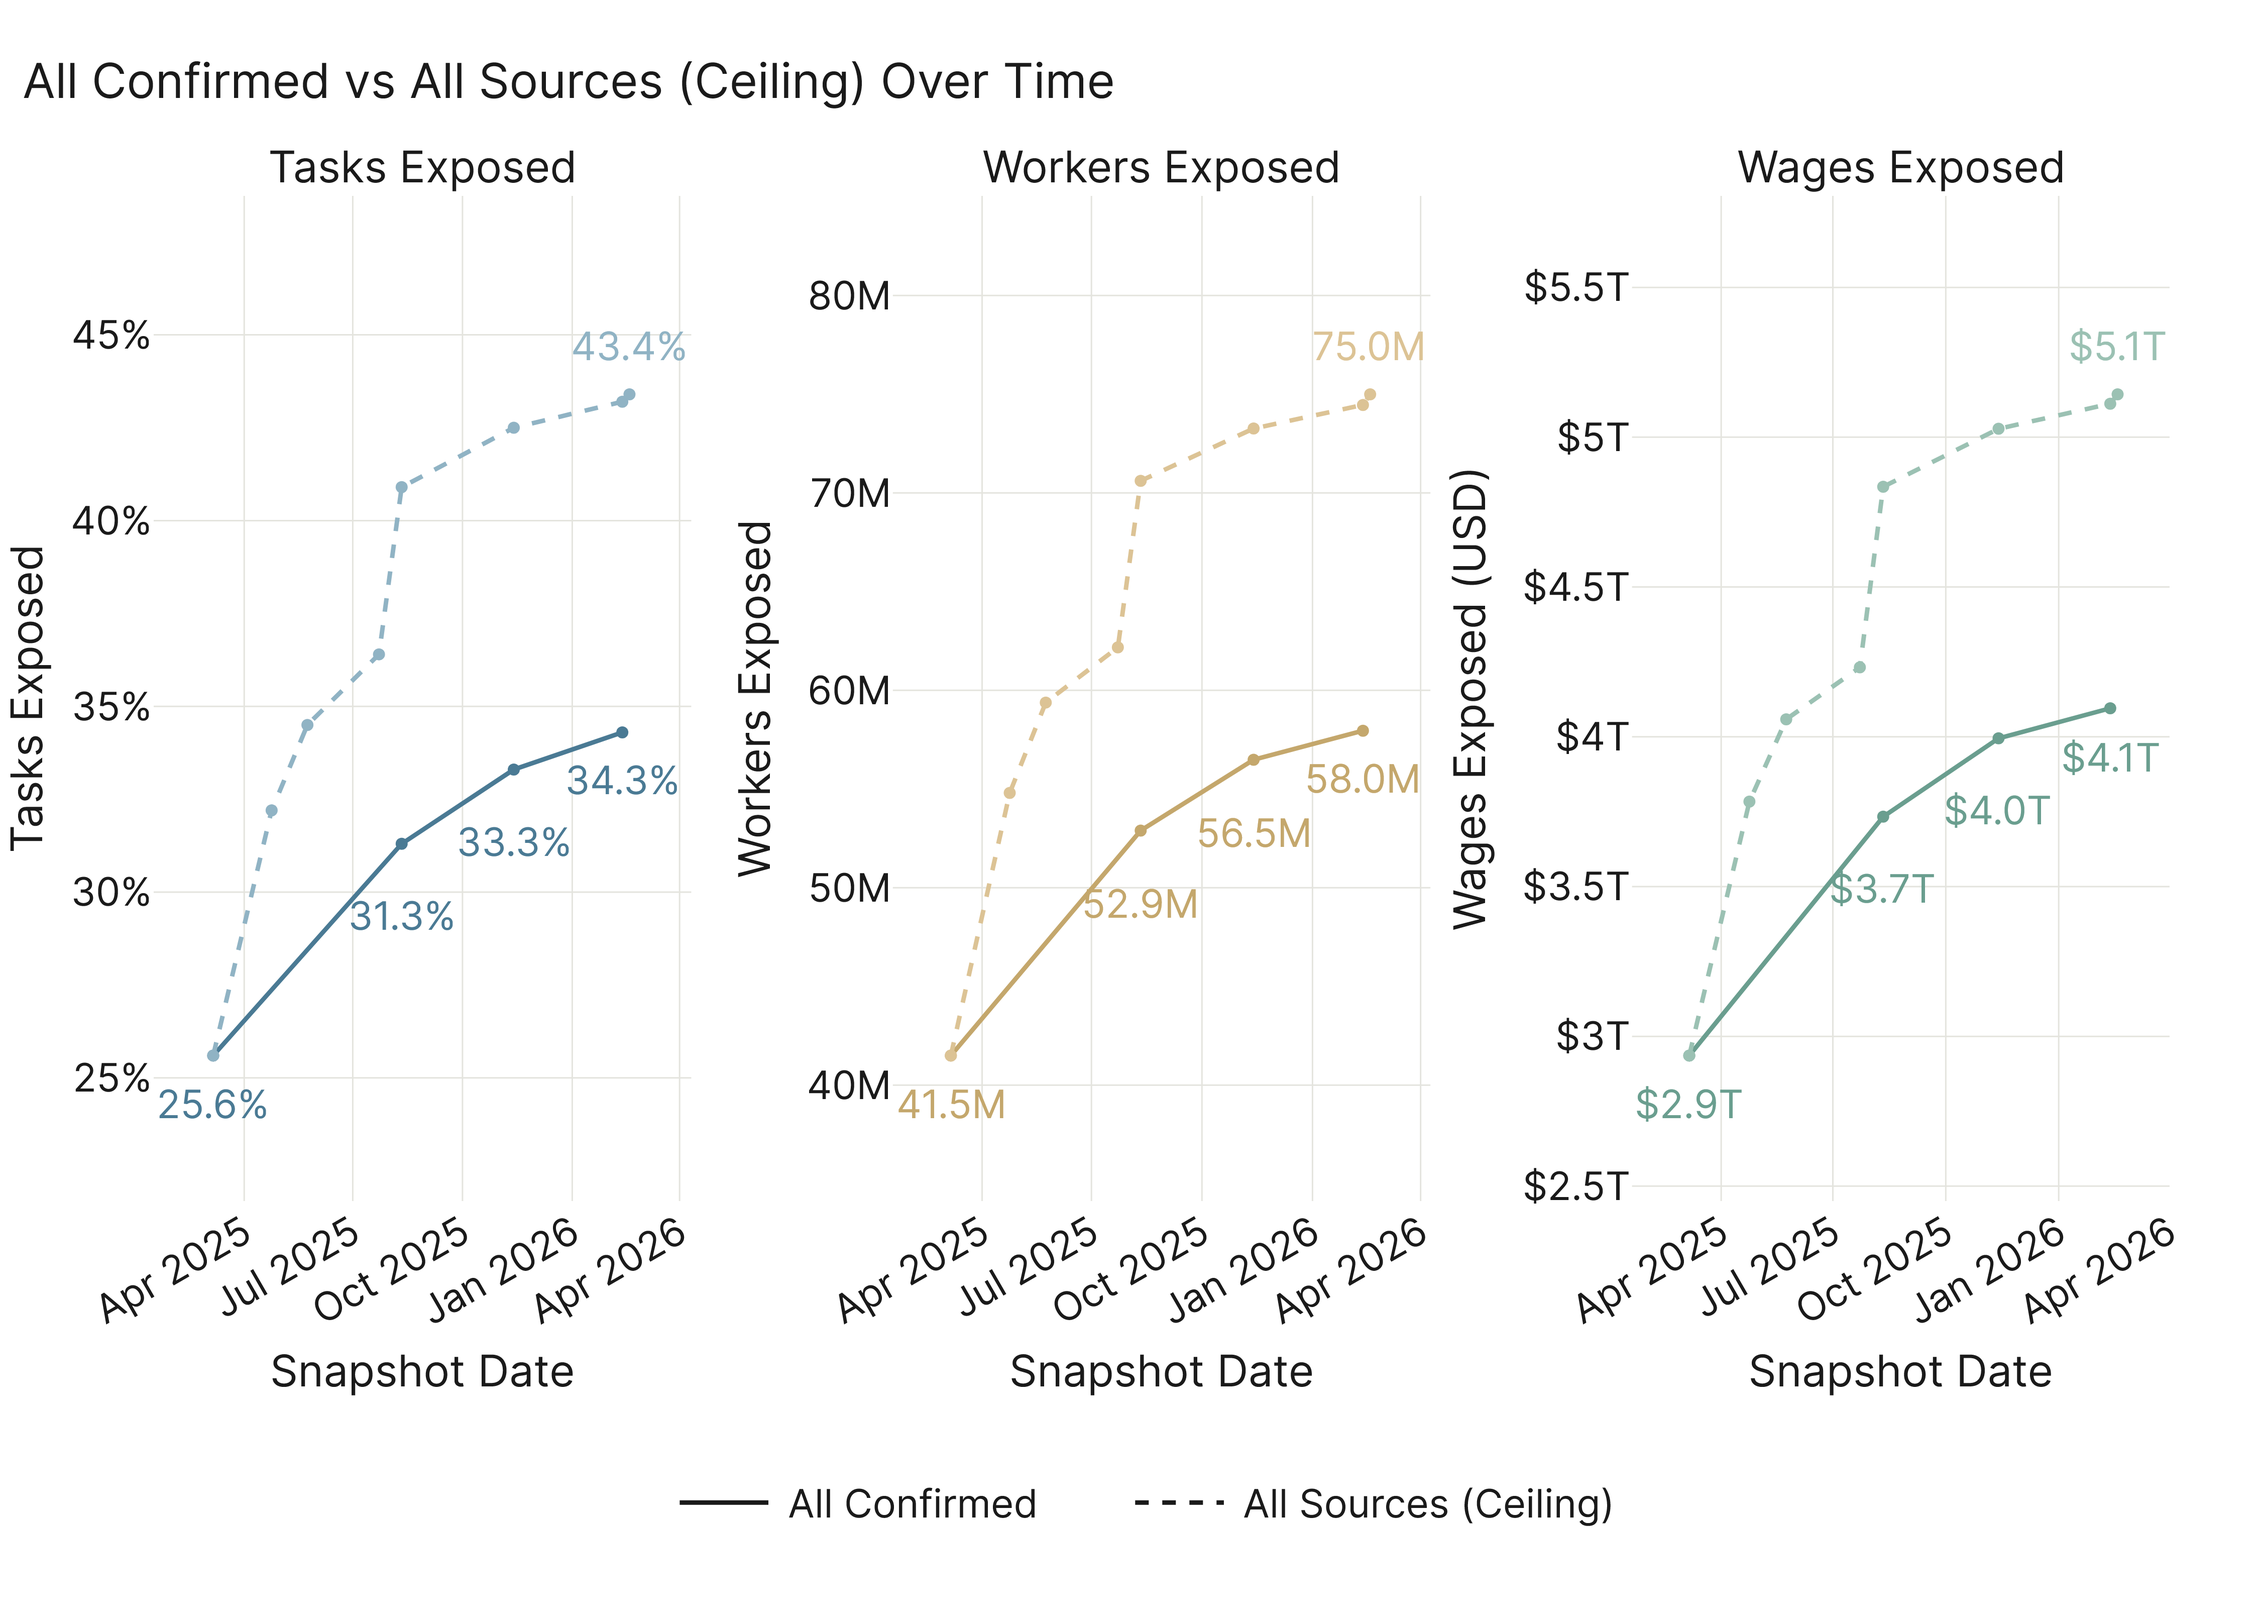
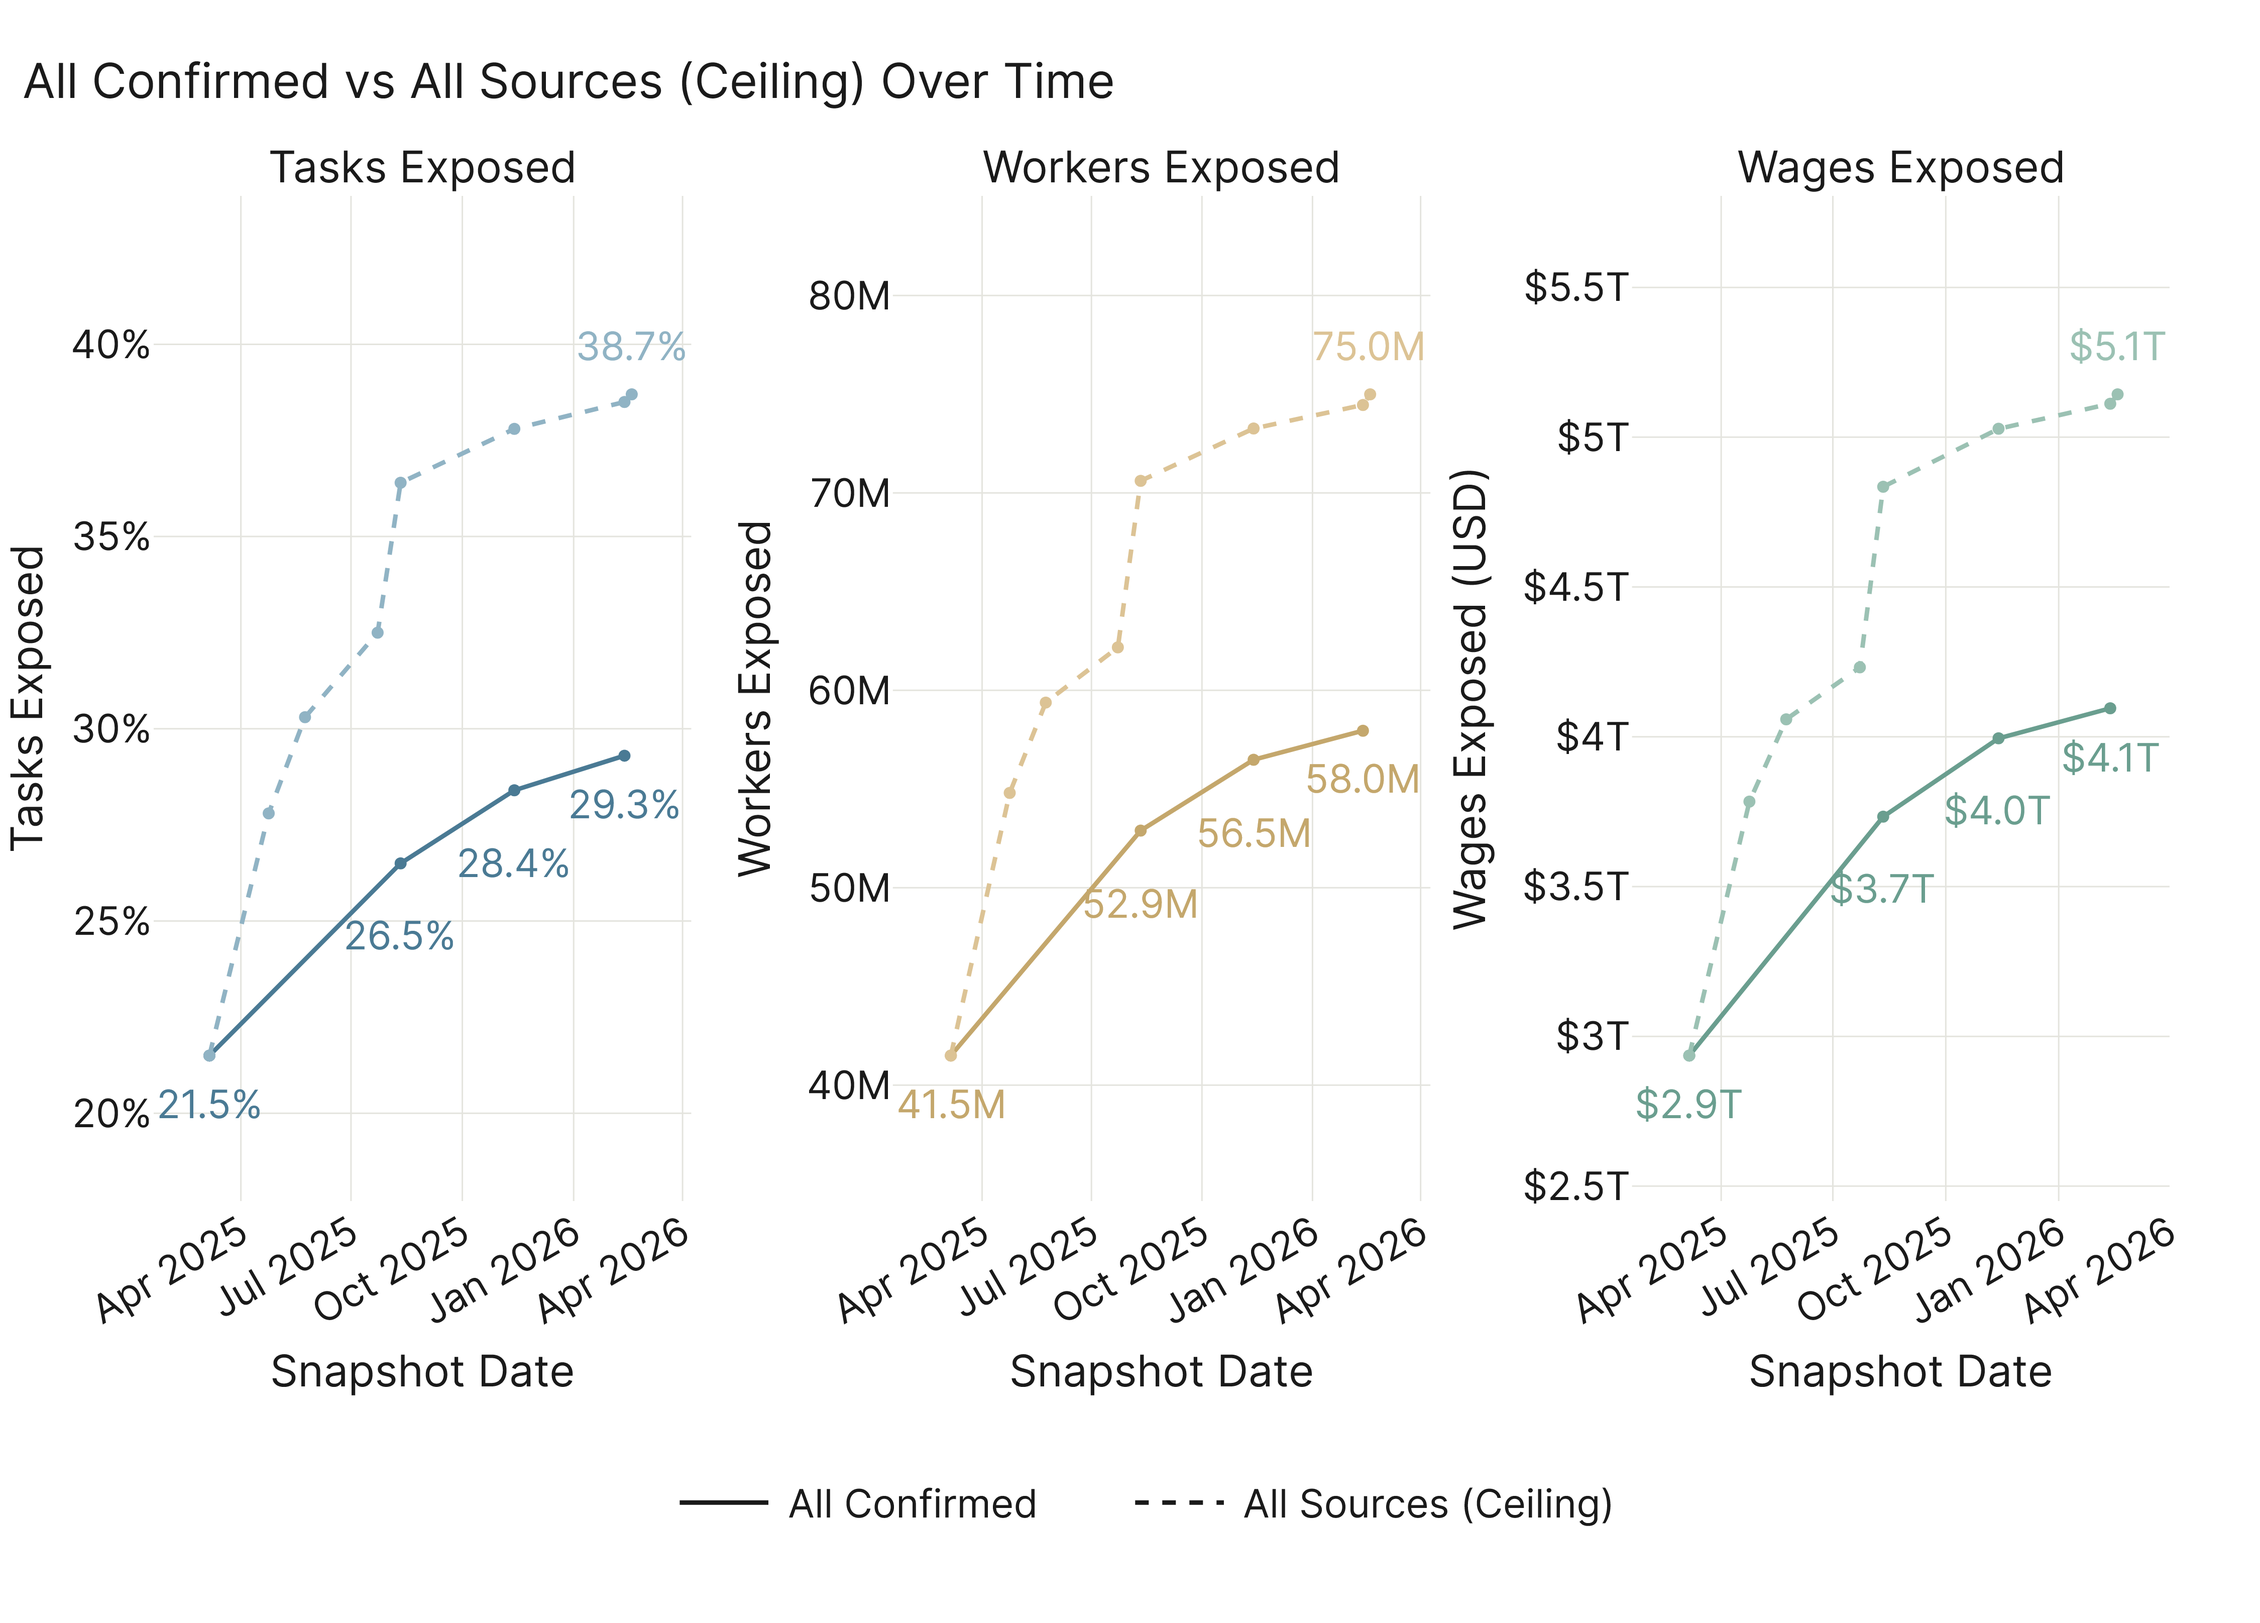
trend line charts regened

diff --git a/analysis/paper/results/appendix/run.py b/analysis/paper/results/appendix/run.py
@@ -1207,13 +1207,30 @@ def build_temporal_trend_nonphys(results: Path, figures: Path) -> None:
     ]
 
     # ── 1. Build trend data ──────────────────────────────────────────
+    # Pre-compute the eco_task_comp denominator for each physical mode in
+    # use, so the % tasks number is a ratio-of-totals across the matching
+    # eco subset (non-physical tasks only / physical tasks only).
+    from backend.compute import load_eco_baseline
+    eco_tc_by_mode: dict[str, pd.Series] = {}
+    for phys_mode in {p for _, p, _, _, _, _ in series_spec}:
+        eco_phys = load_eco_baseline(method="freq", physical_mode=phys_mode, geo="nat")
+        eco_tc_by_mode[phys_mode] = (
+            eco_phys.groupby("title_current")["task_comp"].sum()
+        )
+
     trend_rows: list[dict] = []
     for config_key, phys_mode, series_key, label, _color, _dash in series_spec:
         series = ANALYSIS_CONFIG_SERIES[config_key]
+        eco_tc_by_occ = eco_tc_by_mode[phys_mode]
+        eco_tc_total = float(eco_tc_by_occ.sum())
         for ds_name in series:
             date_str = ds_name.rsplit(" ", 1)[-1]
             df = _run_config_phys_mode(ds_name, phys_mode, "occupation")
-            pct_tasks = float(df["pct_tasks_affected"].mean())
+            # Ratio-of-totals across (task, occ) pairs in the matching eco
+            # subset (phys-filtered both sides).
+            eco_tc_aligned = df["category"].map(eco_tc_by_occ).fillna(0.0)
+            ai_tc_total = float(((df["pct_tasks_affected"] / 100.0) * eco_tc_aligned).sum())
+            pct_tasks = (ai_tc_total / eco_tc_total * 100.0) if eco_tc_total > 0 else 0.0
             trend_rows.append({
                 "series": series_key,
                 "config": config_key,

diff --git a/analysis/paper/results/part_1/run.py b/analysis/paper/results/part_1/run.py
@@ -1000,6 +1000,8 @@ def _delta_gradient(values: list[float | None], historical_fill: str) -> list[st
 def _build_trend_data() -> pd.DataFrame:
     total_emp, total_wages = _get_national_totals()
     eco_tasks = _get_eco_task_count()
+    eco_tc_by_occ = _eco_task_comp_by_occ()
+    eco_tc_total = float(eco_tc_by_occ.sum())
 
     trend_rows: list[dict] = []
     for config_key in TREND_CONFIGS:
@@ -1012,7 +1014,11 @@ def _build_trend_data() -> pd.DataFrame:
             workers = float(df["workers_affected"].sum())
             wages = float(df["wages_affected"].sum())
             pct_emp = workers / total_emp * 100
-            pct_tasks = float(df["pct_tasks_affected"].mean())  # unweighted
+            # Ratio-of-totals across all (task, occ) pairs in the economy
+            # (matches the overview chart's % tasks number).
+            eco_tc_aligned = df["category"].map(eco_tc_by_occ).fillna(0.0)
+            ai_tc_total = float(((df["pct_tasks_affected"] / 100.0) * eco_tc_aligned).sum())
+            pct_tasks = (ai_tc_total / eco_tc_total * 100.0) if eco_tc_total > 0 else 0.0
             n_tasks = _count_tasks(ds_name)
             auto_aug = _avg_auto_aug(ds_name)
 
